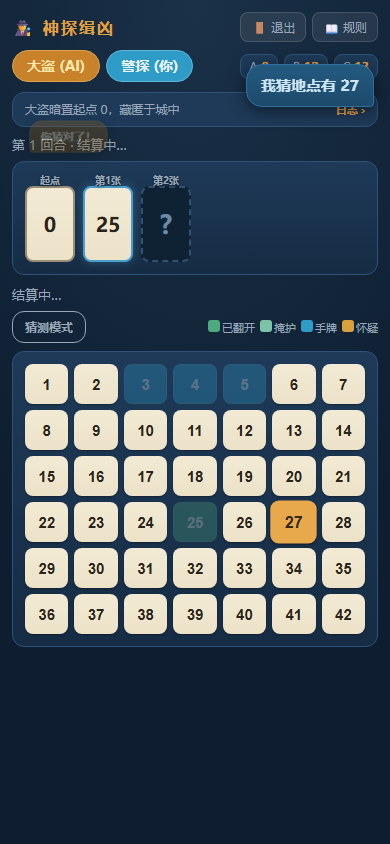
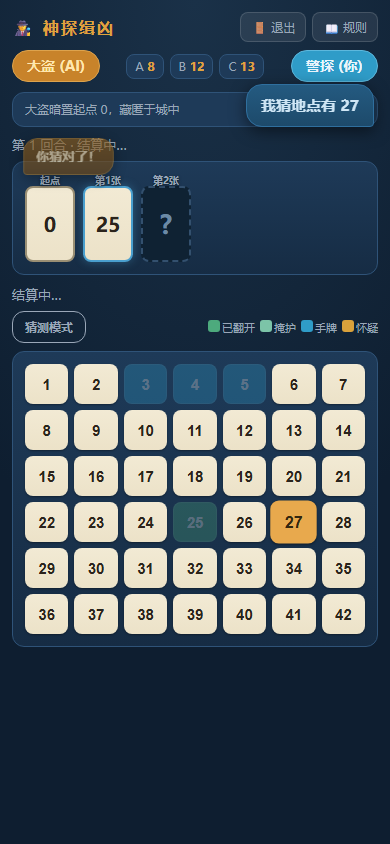
feat(神探缉凶规则样式)

Changed region(s): [[0.2769, 0.0616, 0.9846, 0.154], [0.0615, 0.1232, 0.3077, 0.2156]]

diff --git a/fugitive/game.js b/fugitive/game.js
@@ -709,11 +709,12 @@ function renderGame(){
           '<button class="icon-btn" onclick="showModal(\'rules\')">📖 规则</button>' +
         '</div>' +
       '</div>' +
-      '<div class="tb-row">' +
-        '<div class="tb-left">' + roleTag('fugitive') + roleTag('marshal') + '</div>' +
-        '<div class="tb-right">' +
+      '<div class="tb-row tb-tri">' +
+        '<div class="tb-left">' + roleTag(state.humanRole==='fugitive'?'marshal':'fugitive') + '</div>' +
+        '<div class="tb-center">' +
           '<div class="pile-box">' + PILES.map(p => '<span class="pile">' + p.key + ' <b>' + state.piles[p.key].length + '</b></span>').join('') + '</div>' +
         '</div>' +
+        '<div class="tb-right">' + roleTag(state.humanRole) + '</div>' +
       '</div>' +
     '</div>' +
     logLineHTML() +
@@ -911,11 +912,12 @@ function renderManhunt(){
           '<button class="icon-btn" onclick="showModal(\'rules\')">📖 规则</button>' +
         '</div>' +
       '</div>' +
-      '<div class="tb-row">' +
-        '<div class="tb-left">' + roleTag('fugitive') + roleTag('marshal') + '</div>' +
-        '<div class="tb-right">' +
+      '<div class="tb-row tb-tri">' +
+        '<div class="tb-left">' + roleTag(state.humanRole==='fugitive'?'marshal':'fugitive') + '</div>' +
+        '<div class="tb-center">' +
           '<div class="pile-box">' + PILES.map(p => '<span class="pile">' + p.key + ' <b>' + state.piles[p.key].length + '</b></span>').join('') + '</div>' +
         '</div>' +
+        '<div class="tb-right">' + roleTag(state.humanRole) + '</div>' +
       '</div>' +
     '</div>' +
     logLineHTML() +
@@ -942,11 +944,12 @@ function renderOver(){
           '<button class="icon-btn" onclick="showModal(\'rules\')">📖 规则</button>' +
         '</div>' +
       '</div>' +
-      '<div class="tb-row">' +
-        '<div class="tb-left">' + roleTag('fugitive') + roleTag('marshal') + '</div>' +
-        '<div class="tb-right">' +
+      '<div class="tb-row tb-tri">' +
+        '<div class="tb-left">' + roleTag(state.humanRole==='fugitive'?'marshal':'fugitive') + '</div>' +
+        '<div class="tb-center">' +
           '<div class="pile-box">' + PILES.map(p => '<span class="pile">' + p.key + ' <b>' + state.piles[p.key].length + '</b></span>').join('') + '</div>' +
         '</div>' +
+        '<div class="tb-right">' + roleTag(state.humanRole) + '</div>' +
       '</div>' +
     '</div>' +
     logLineHTML() +
@@ -1039,10 +1042,11 @@ function modalHTML(){
     '<h3>规则说明</h3>' +
     '<ul>' +
       '<li><b>目标</b>：<u>大盗</u>暗放地点牌（必须递增，且 ≤ 上一张 +3），率先打出 42 则逃脱；<u>警探</u>抽牌并猜测数字，猜对则翻开地点牌，全部地点牌翻出则获胜。</li>' +
-      '<li><b>掩护</b>：每张 1~41 牌自带掩护标记（奇数 1 个、偶数 2 个；0/42 不能作掩护）。打出地点牌时可追加任意数量掩护牌（面朝下），每 1 个标记可放宽上限 +1。</li>' +
-      '<li><b>第一回合</b>：大盗放 1~2 张；警探抽 2 张并必须猜测。</li>' +
-      '<li><b>后续回合</b>：大盗抽 1 张后，可放 1 张或跳过；警探抽 1 张后必须猜测。</li>' +
-      '<li><b>猜测</b>：可猜任意 1~41 数字（不消耗手牌）。单猜命中即翻开（掩护牌一并翻开）；多猜须全部命中才翻。已公开 / 手牌数字不可再猜，猜过未中的数字可再猜。</li>' +
+      '<li><b>牌堆</b>：<table class="pile-table"><tr><th>牌堆</th><th>范围</th><th>张数</th></tr><tr><td>A</td><td>4 ~ 14</td><td>11</td></tr><tr><td>B</td><td>15 ~ 28</td><td>14</td></tr><tr><td>C</td><td>29 ~ 41</td><td>13</td></tr></table>剩牌数在顶栏中部显示。</li>' +
+      '<li><b>初始手牌</b>：大盗起始 9 张——固定 <b>1、2、3、42</b> + A 堆抽 3 张 + B 堆抽 2 张。警探起始空手。</li>' +
+      '<li><b>掩护</b>：每张 1~41 牌自带掩护标记（奇数 1 个、偶数 2 个；42 不能作掩护）。打出地点牌时可追加任意数量掩护牌（正面朝下），每 1 个标记可放宽上限 +1。</li>' +
+      '<li><b>回合流程</b>：<table class="pile-table"><tr><th></th><th>大盗</th><th>警探</th></tr><tr><td>第一回合</td><td>放 1~2 张地点牌</td><td>抽 2 张后必须猜测</td></tr><tr><td>后续回合</td><td>抽 1 张，可放 1 张或跳过</td><td>抽 1 张后必须猜测</td></tr></table></li>' +
+      '<li><b>猜测</b>：可猜任意 1~41 数字。单猜命中即翻开（掩护牌一并翻开）；多猜须全部命中才翻。</li>' +
       '<li><b>搜捕</b>：大盗打出 42 时若已翻开地点牌均不大于 30 ，警探进入搜捕：依次单猜全部暗牌，猜错即大盗胜，全对则警探获胜。</li>' +
     '</ul>' +
     '<button class="btn btn-primary" onclick="closeModal(\'rules\')">知道了</button>' +

diff --git a/fugitive/style.css b/fugitive/style.css
@@ -61,6 +61,10 @@ body { font-family:-apple-system,system-ui,"PingFang SC","Microsoft YaHei",sans-
 /* ===== 顶栏（两行：标题行 / 角色+牌堆行） ===== */
 #topbar { display:flex; flex-direction:column; gap:8px; margin-bottom:10px; }
 .tb-row { display:flex; align-items:center; justify-content:space-between; gap:8px; flex-wrap:wrap; }
+.tb-row.tb-tri { display:grid; grid-template-columns:1fr auto 1fr; align-items:center; flex-wrap:nowrap; }
+.tb-row.tb-tri .tb-left { justify-self:start; }
+.tb-row.tb-tri .tb-center { justify-self:center; }
+.tb-row.tb-tri .tb-right { justify-self:end; }
 .tb-title { font-size:16px; margin:0; color:var(--gold); letter-spacing:2px; display:flex; align-items:center; gap:6px; }
 .tb-btns { display:flex; gap:6px; }
 .role-tag { padding:6px 14px; border-radius:999px; font-size:14px; font-weight:700; }
@@ -77,7 +81,7 @@ body { font-family:-apple-system,system-ui,"PingFang SC","Microsoft YaHei",sans-
 
 /* ===== 出牌区 ===== */
 #track { display:flex; flex-wrap:wrap; gap:20px 8px; align-items:flex-start; padding:24px 12px 12px; background:linear-gradient(180deg, var(--surface), var(--surface-2)); border:1px solid var(--line); border-radius:var(--radius); min-height:110px; margin-bottom:12px; }
-.t-card { position:relative; width:calc((100% - 40px)/6); height:76px; border-radius:8px; display:flex; flex-direction:column; align-items:center; justify-content:center; font-weight:800; font-size:20px; flex-shrink:0; }
+.t-card { position:relative; width:calc((100% - 40px)/6); height:76px; border-radius:8px; display:flex; flex-direction:column; align-items:center; justify-content:center; font-weight:800; font-size:20px; flex-shrink:0; text-align:center; }
 .t-card .idx { position:absolute; top:-14px; left:0; right:0; text-align:center; font-size:10px; color:var(--text-dim); text-shadow:0 1px 3px rgba(0,0,0,.6); }
 .t-card .sprint { font-size:9px; color:var(--text-dim); font-weight:400; margin-top:2px; }
 .t-card .cov { font-size:9px; color:var(--ink-dim); font-weight:400; margin-top:2px; }
@@ -130,7 +134,7 @@ body { font-family:-apple-system,system-ui,"PingFang SC","Microsoft YaHei",sans-
 .sheet-foot { font-size:11px; color:var(--text-dim); text-align:center; margin:10px 0; }
 
 /* ===== 气泡对话 ===== */
-#bubble-layer { position:fixed; left:0; right:0; top:64px; z-index:90; display:flex; flex-direction:column; gap:8px; padding:0 16px; pointer-events:none; }
+#bubble-layer { position:fixed; left:0; right:0; top:84px; z-index:90; display:flex; flex-direction:column; gap:8px; padding:0 16px; pointer-events:none; }
 .bubble { max-width:78%; padding:10px 14px; border-radius:16px; font-size:15px; font-weight:600; line-height:1.4; box-shadow:0 4px 16px rgba(0,0,0,.5); animation:popIn .22s ease; }
 .bubble-mar { background:linear-gradient(180deg, #245a80, #1d4a6b); color:#cfe6f5; border:1px solid #2f6f9e; }
 .bubble-fug { background:linear-gradient(180deg, #8a5c1e, #6e4715); color:#ffe6b8; border:1px solid #a5762c; }
@@ -169,6 +173,11 @@ body { font-family:-apple-system,system-ui,"PingFang SC","Microsoft YaHei",sans-
 .modal-overlay.show .modal { transform:translateY(0); }
 .modal h3 { margin-bottom:12px; color:var(--gold); text-align:center; }
 .modal p, .modal li { font-size:13px; line-height:1.7; color:var(--text-dim); margin-bottom:6px; }
+.pile-table { width:100%; border-collapse:collapse; margin:6px 0; }
+.pile-table th, .pile-table td { border:1px solid var(--line); padding:4px 10px; text-align:center; font-size:12px; }
+.pile-table th:first-child, .pile-table td:first-child { width:70px; }
+.pile-table th { background:var(--surface-2); color:var(--gold); font-weight:700; }
+.pile-table td { color:var(--text); }
 .modal ul { padding-left:18px; }
 .modal .btn { width:100%; }
 
